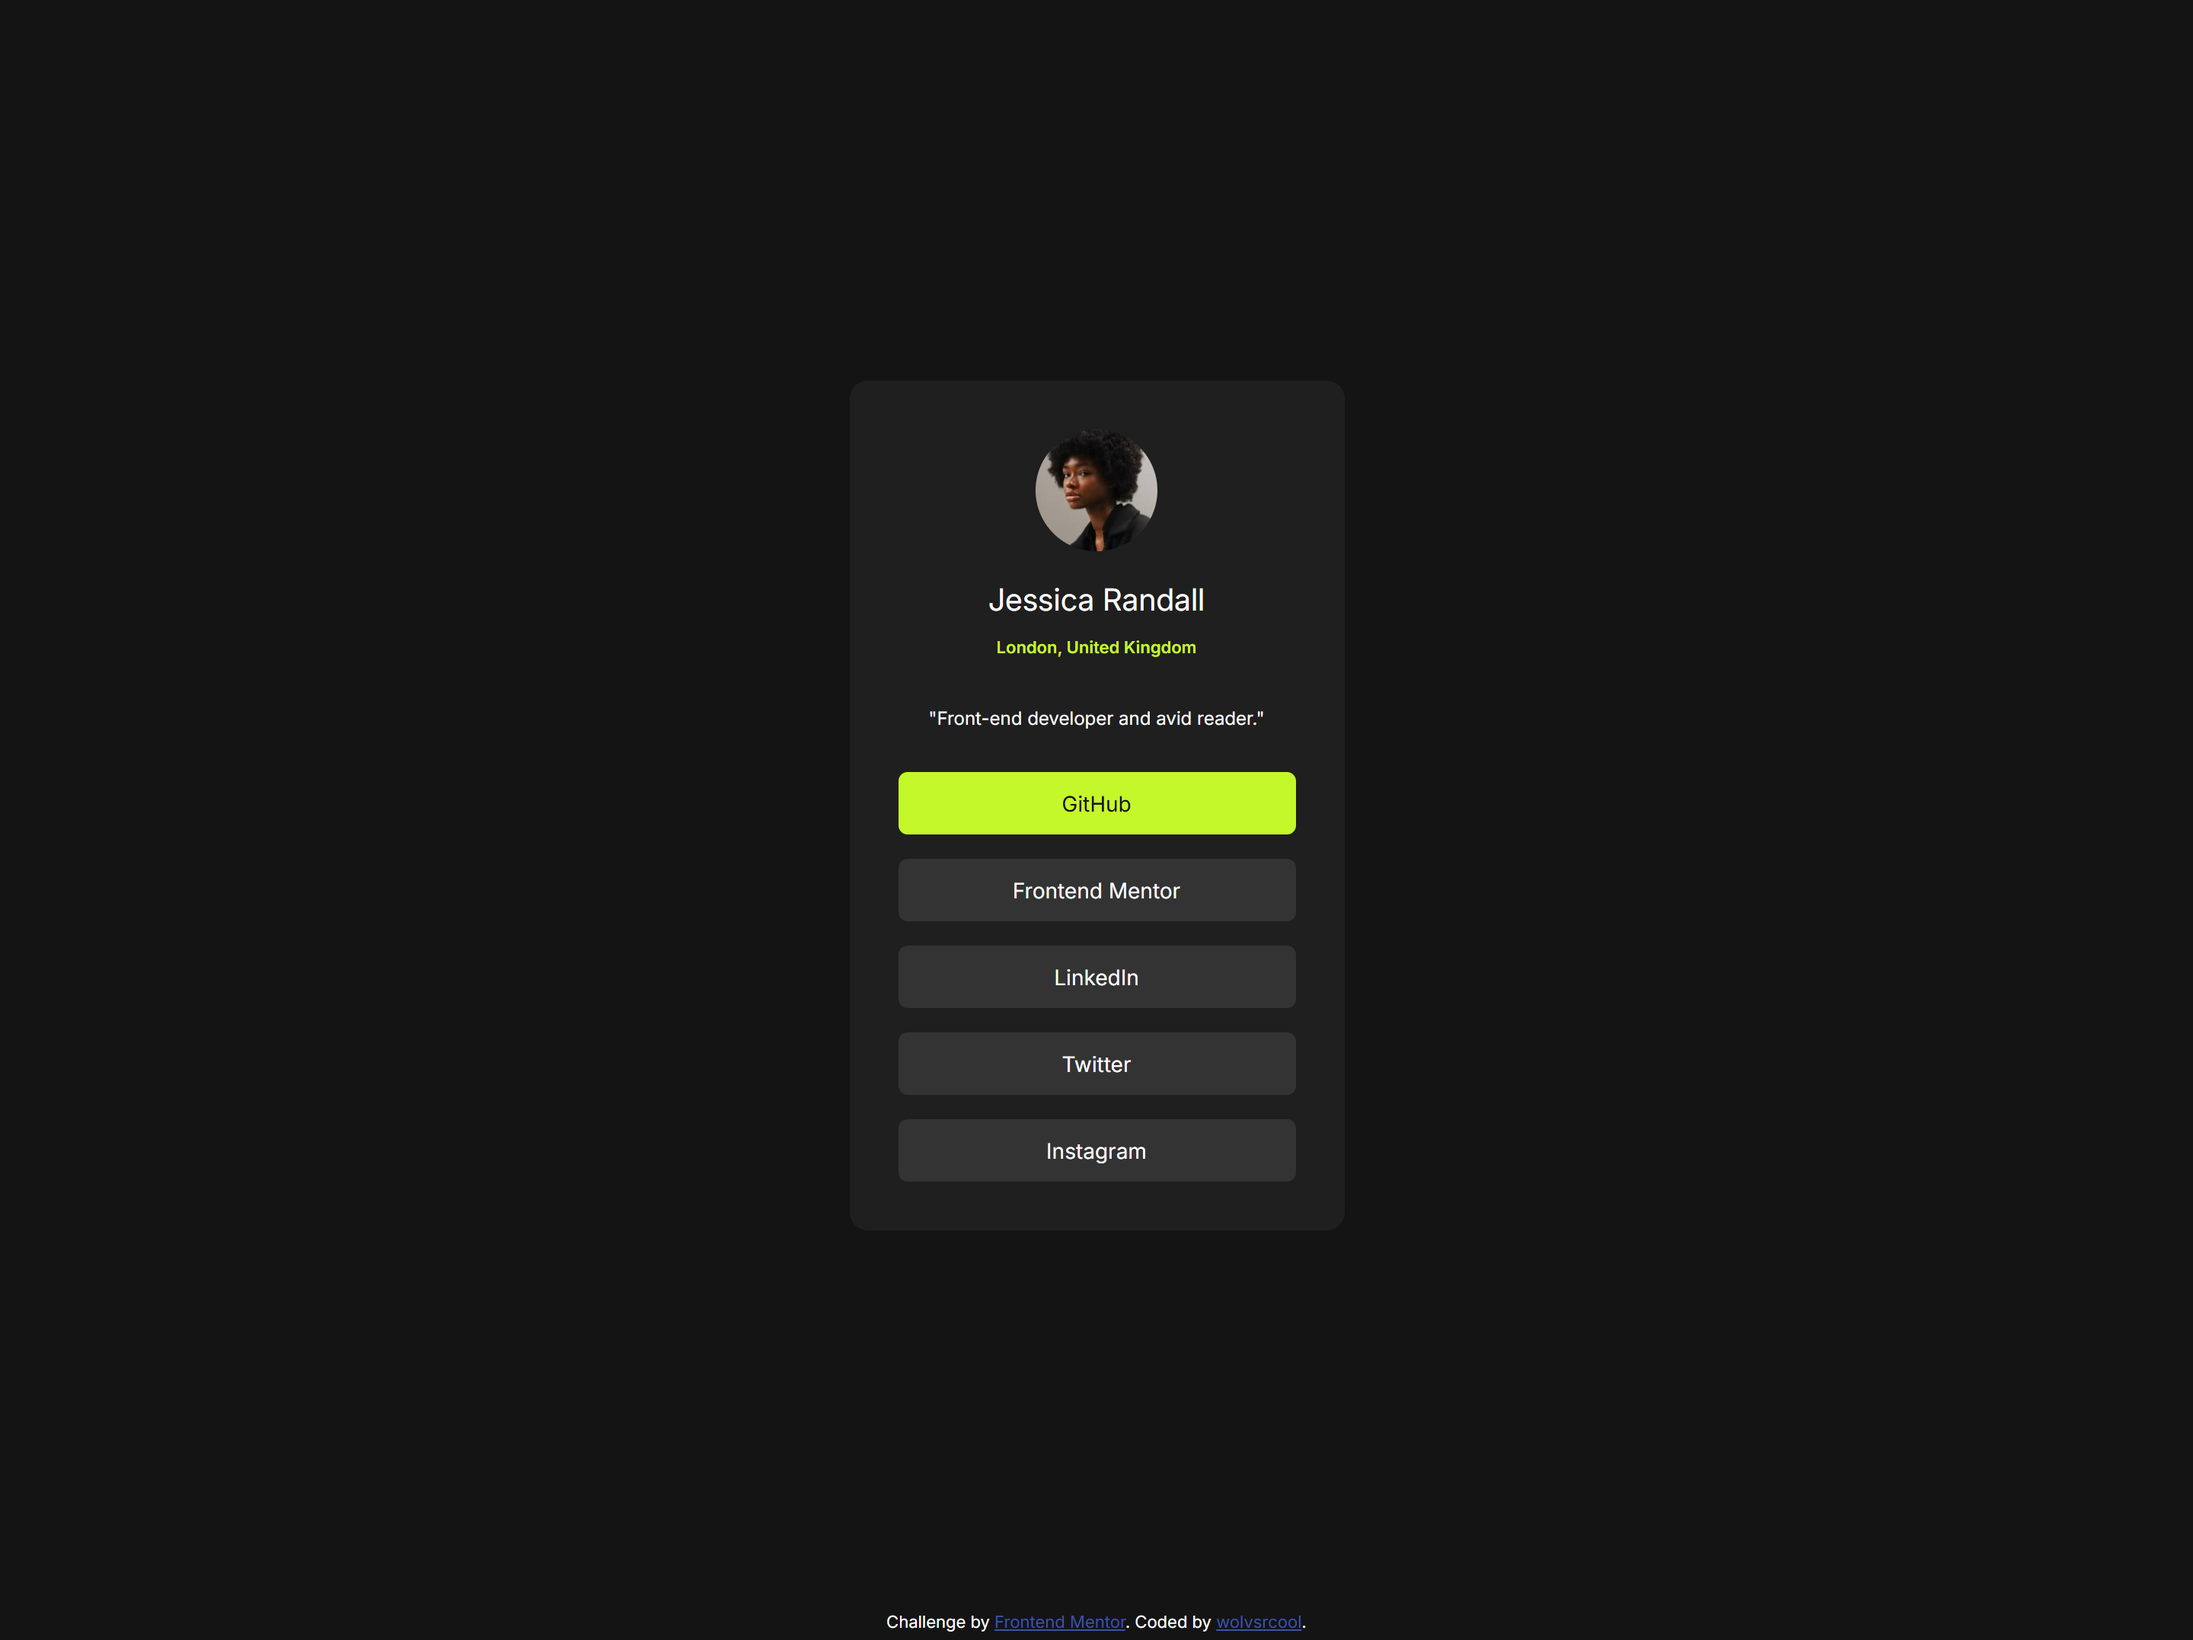
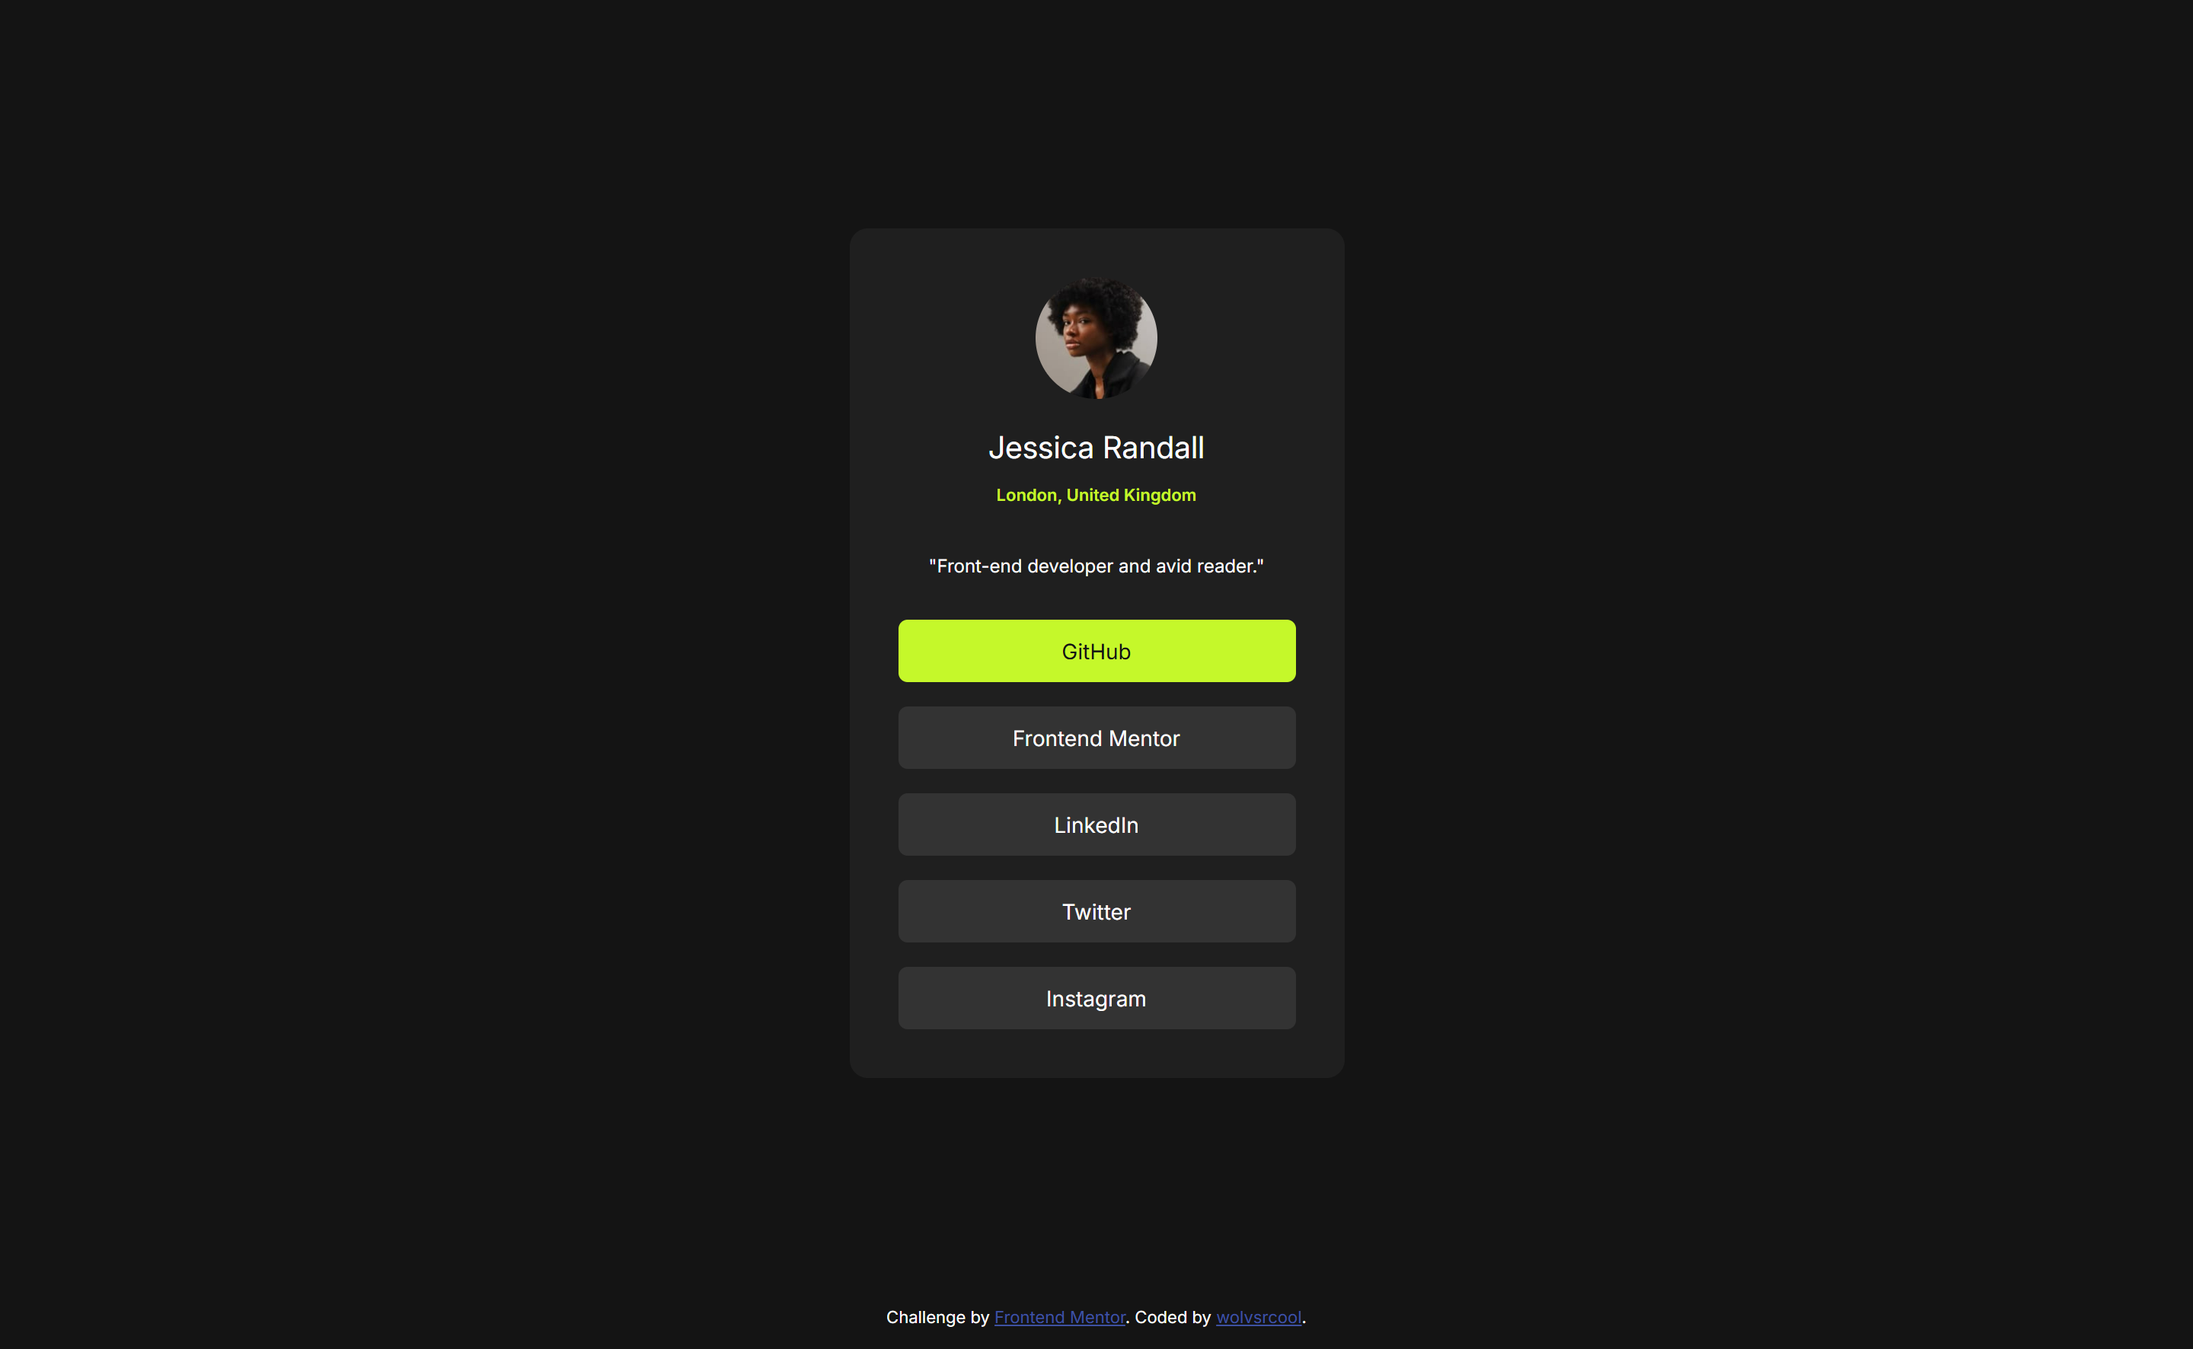
Social links profile

diff --git a/index.html b/index.html
@@ -8,6 +8,9 @@
   <body>
     <main>
       <h3><a href="recipe-page-main/index.html">Responsive recipe page</a></h3>
+      <h3>
+        <a href="social-links-profile-main/index.html">Social links profile</a>
+      </h3>
     </main>
   </body>
 </html>

diff --git a/social-links-profile-main/index.html b/social-links-profile-main/index.html
@@ -54,7 +54,7 @@
       article {
         background-color: hsl(0, 0%, 12%);
         width: 32.5rem;
-        margin: 25rem auto;
+        margin: 15rem auto;
         border-radius: 12px;
       }
 
